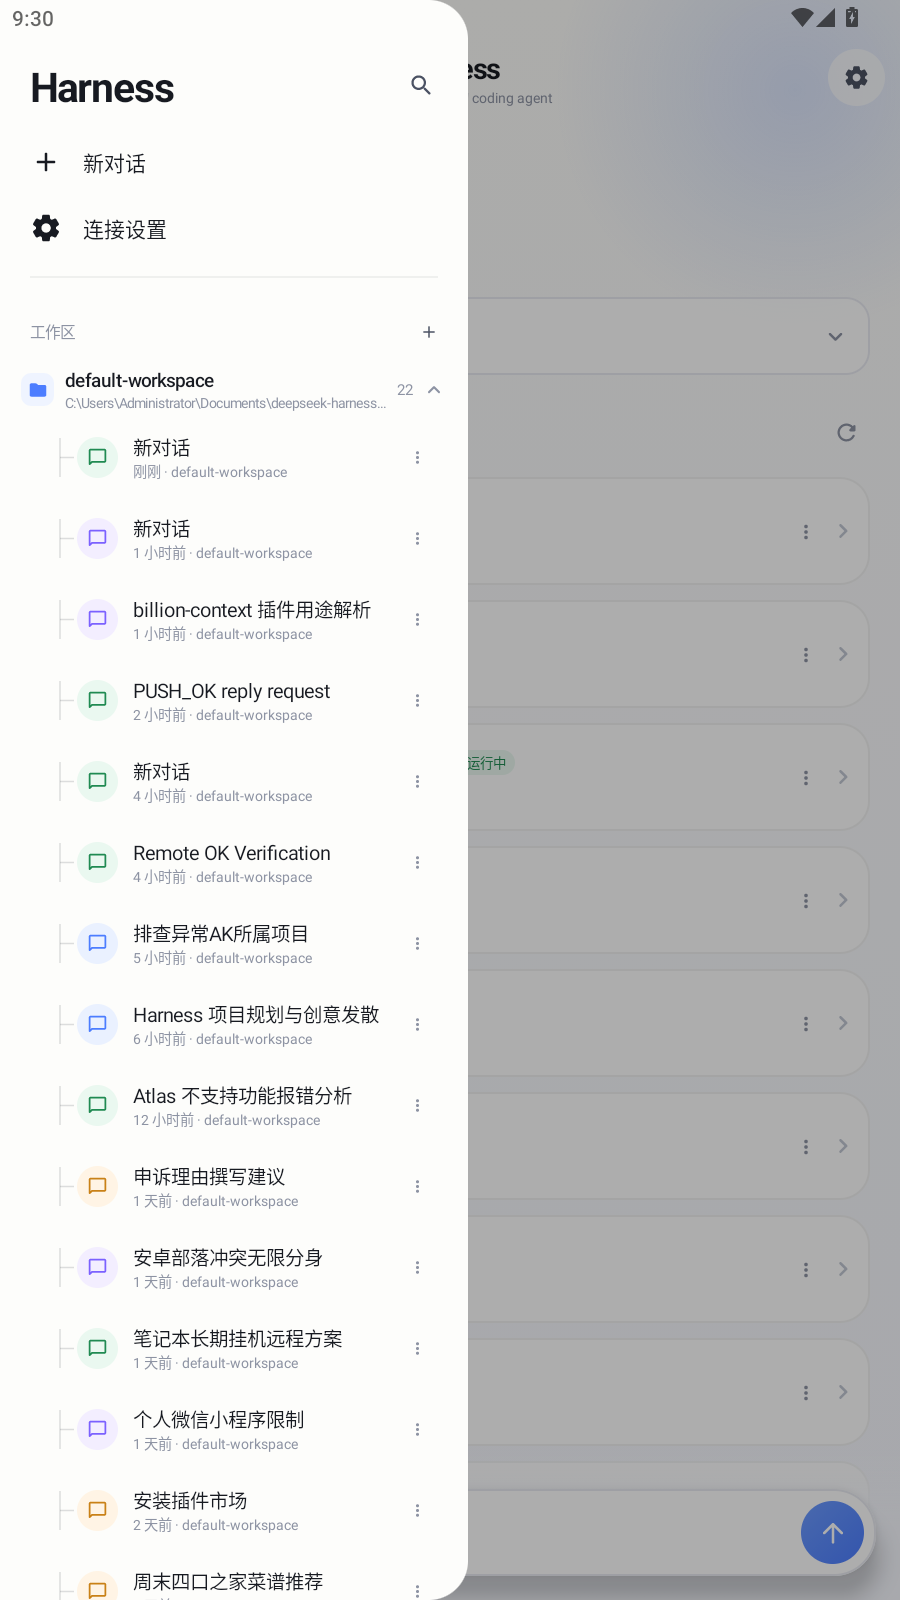
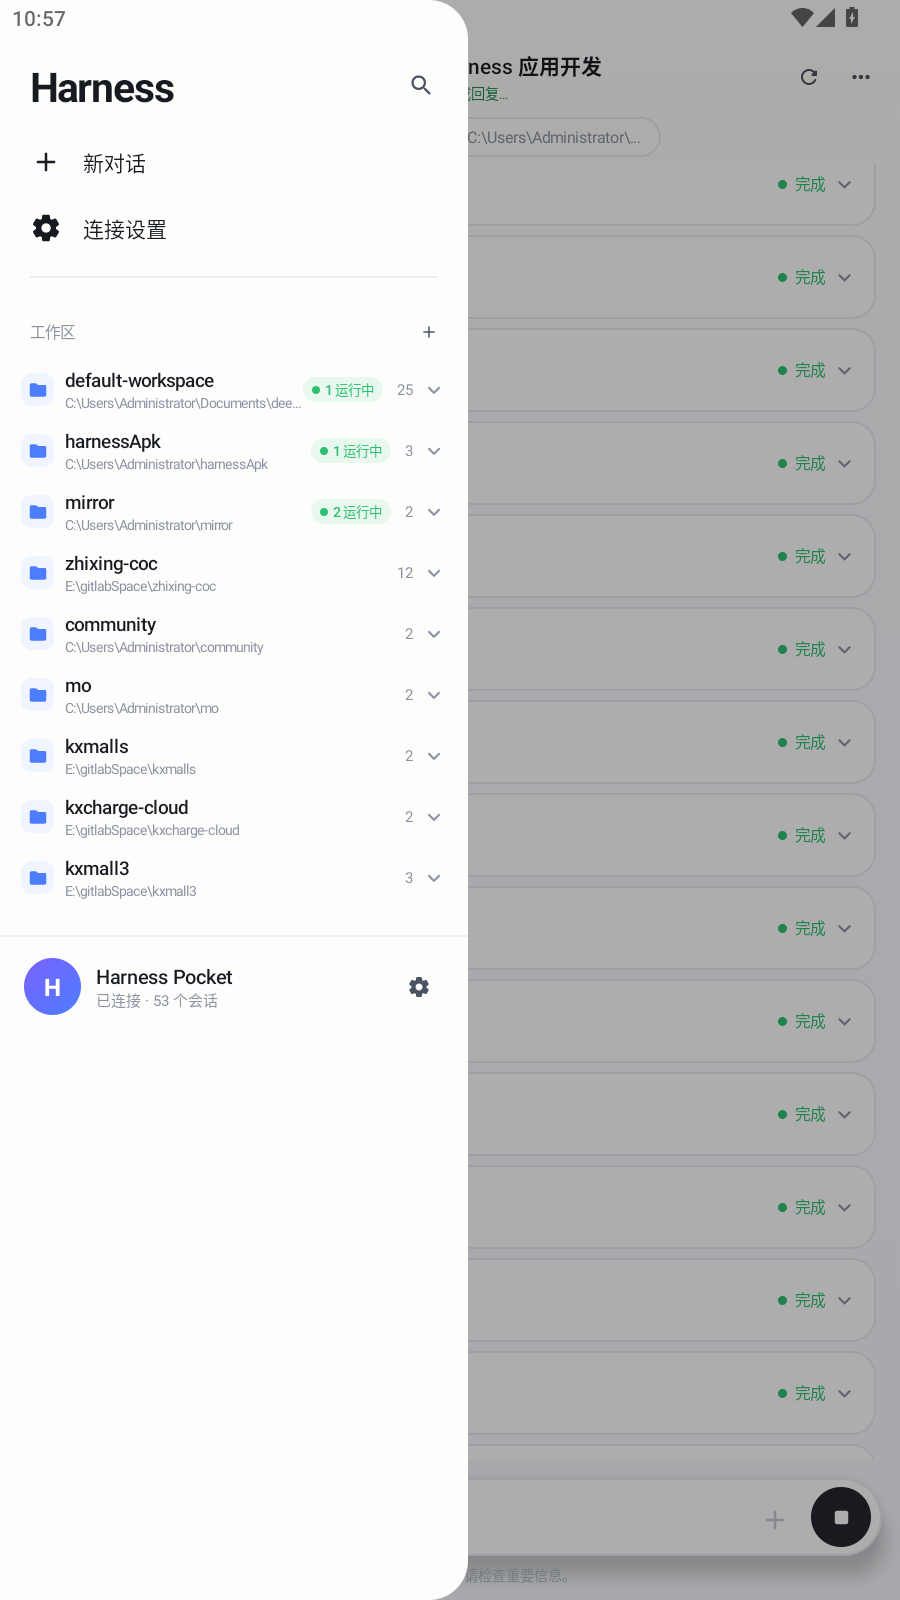
fix: open chats at latest message and collapse workspace tree

diff --git a/app/src/main/java/dev/harness/pocket/ui/Drawer.kt b/app/src/main/java/dev/harness/pocket/ui/Drawer.kt
@@ -88,7 +88,7 @@ fun HarnessDrawer(
     val pinnedIds = pinnedSessions.map { it.sessionId }.toSet()
     val treeSessions = (if (query.isBlank()) visible.filterNot { it.sessionId in pinnedIds } else visible)
         .filter { query.isBlank() || sessionTitle(it.title, it.blank).contains(query, ignoreCase = true) }
-    val groups = groupSessions(state.workspaces, treeSessions)
+    val groups = groupSessions(state.workspaces, treeSessions, visible)
 
     ModalDrawerSheet(
         modifier = Modifier
@@ -223,7 +223,7 @@ fun HarnessDrawer(
             } else {
                 groups.forEach { group ->
                     val key = group.workspace.workspaceId
-                    val open = query.isNotBlank() || expanded[key] != false
+                    val open = query.isNotBlank() || expanded[key] == true
                     DrawerWorkspaceHeader(
                         group = group,
                         open = open,
@@ -385,6 +385,31 @@ private fun DrawerWorkspaceHeader(
                 )
             }
         }
+        if (group.runningCount > 0) {
+            Surface(
+                shape = RoundedCornerShape(100.dp),
+                color = Color(0xFFE8F8EF)
+            ) {
+                Row(
+                    Modifier.padding(horizontal = 6.dp, vertical = 2.dp),
+                    verticalAlignment = Alignment.CenterVertically
+                ) {
+                    Box(
+                        Modifier
+                            .size(5.dp)
+                            .background(Green, CircleShape)
+                    )
+                    Spacer(Modifier.width(3.dp))
+                    Text(
+                        "${group.runningCount} 运行中",
+                        color = Green,
+                        fontSize = 9.sp,
+                        fontWeight = FontWeight.Medium
+                    )
+                }
+            }
+            Spacer(Modifier.width(4.dp))
+        }
         Text(
             "${group.sessions.size}",
             color = Muted,
@@ -523,24 +548,22 @@ private fun SessionDot(seed: String) {
 
 private data class WorkspaceGroup(
     val workspace: WorkspaceInfo,
-    val sessions: List<SessionSummary>
+    val sessions: List<SessionSummary>,
+    val runningCount: Int = 0
 )
 
 private fun groupSessions(
     workspaces: List<WorkspaceInfo>,
-    sessions: List<SessionSummary>
+    sessions: List<SessionSummary>,
+    allSessions: List<SessionSummary>
 ): List<WorkspaceGroup> {
     val buckets = LinkedHashMap<String, MutableList<SessionSummary>>()
     sessions.forEach { session ->
-        val key = session.cwd
-            ?.trim()
-            ?.trimEnd('\\', '/')
-            ?.lowercase()
-            .orEmpty()
+        val key = cwdKey(session.cwd)
         buckets.getOrPut(key) { mutableListOf() }.add(session)
     }
 
-    return buckets.map { (_, items) ->
+    return buckets.map { (key, items) ->
         val sorted = items.sortedByDescending { it.updatedAt }
         val cwd = sorted.firstOrNull()?.cwd
         val registered = workspaces.firstOrNull { samePath(it.path, cwd) }
@@ -549,9 +572,13 @@ private fun groupSessions(
             path = cwd.orEmpty(),
             title = cwdLabel(cwd) ?: "未关联工作区"
         )
-        WorkspaceGroup(workspace, sorted)
+        val running = allSessions.count { it.running && cwdKey(it.cwd) == key }
+        WorkspaceGroup(workspace, sorted, running)
     }.sortedByDescending { it.sessions.firstOrNull()?.updatedAt ?: 0L }
 }
+
+private fun cwdKey(path: String?): String =
+    path?.trim()?.trimEnd('\\', '/')?.lowercase().orEmpty()
 
 private fun samePath(left: String?, right: String?): Boolean {
     if (left.isNullOrBlank() || right.isNullOrBlank()) return false

diff --git a/app/src/main/java/dev/harness/pocket/ui/ChatScreen.kt b/app/src/main/java/dev/harness/pocket/ui/ChatScreen.kt
@@ -161,11 +161,32 @@ fun ChatScreen(
 
     val lastAssistant = chat.allItems.lastOrNull() as? AssistantMessage
     val showTyping = chat.sending || (chat.running && lastAssistant?.text.isNullOrBlank())
+    var didInitialScroll by remember(state.activeSession?.sessionId) { mutableStateOf(false) }
 
-    LaunchedEffect(chat.allItems.size, showTyping) {
-        val count = chat.allItems.size + if (showTyping) 1 else 0
-        if (count > 0) {
-            listState.animateScrollToItem(count)
+    LaunchedEffect(chat.loading) {
+        if (chat.loading) didInitialScroll = false
+    }
+
+    LaunchedEffect(
+        state.activeSession?.sessionId,
+        chat.allItems.size,
+        showTyping,
+        chat.error
+    ) {
+        if (chat.allItems.isEmpty()) return@LaunchedEffect
+        val target = chat.allItems.size +
+            (if (showTyping) 1 else 0) +
+            (if (chat.error != null) 1 else 0)
+        if (!didInitialScroll) {
+            // Opening a conversation should land at the newest message, without
+            // animating through the whole history.
+            listState.scrollToItem(target)
+            didInitialScroll = true
+        } else {
+            val lastVisible = listState.layoutInfo.visibleItemsInfo.lastOrNull()?.index ?: -1
+            if (lastVisible >= target - 2) {
+                listState.animateScrollToItem(target)
+            }
         }
     }
 
